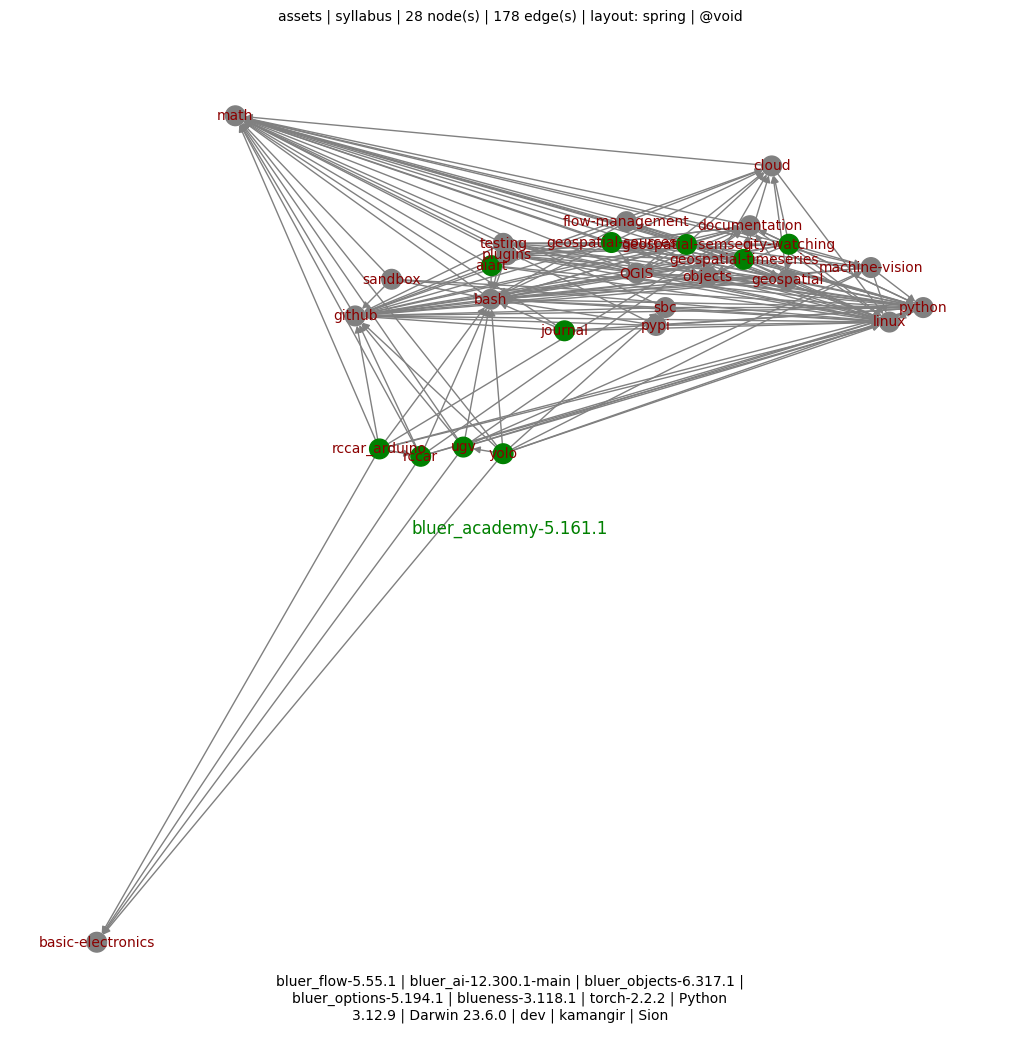
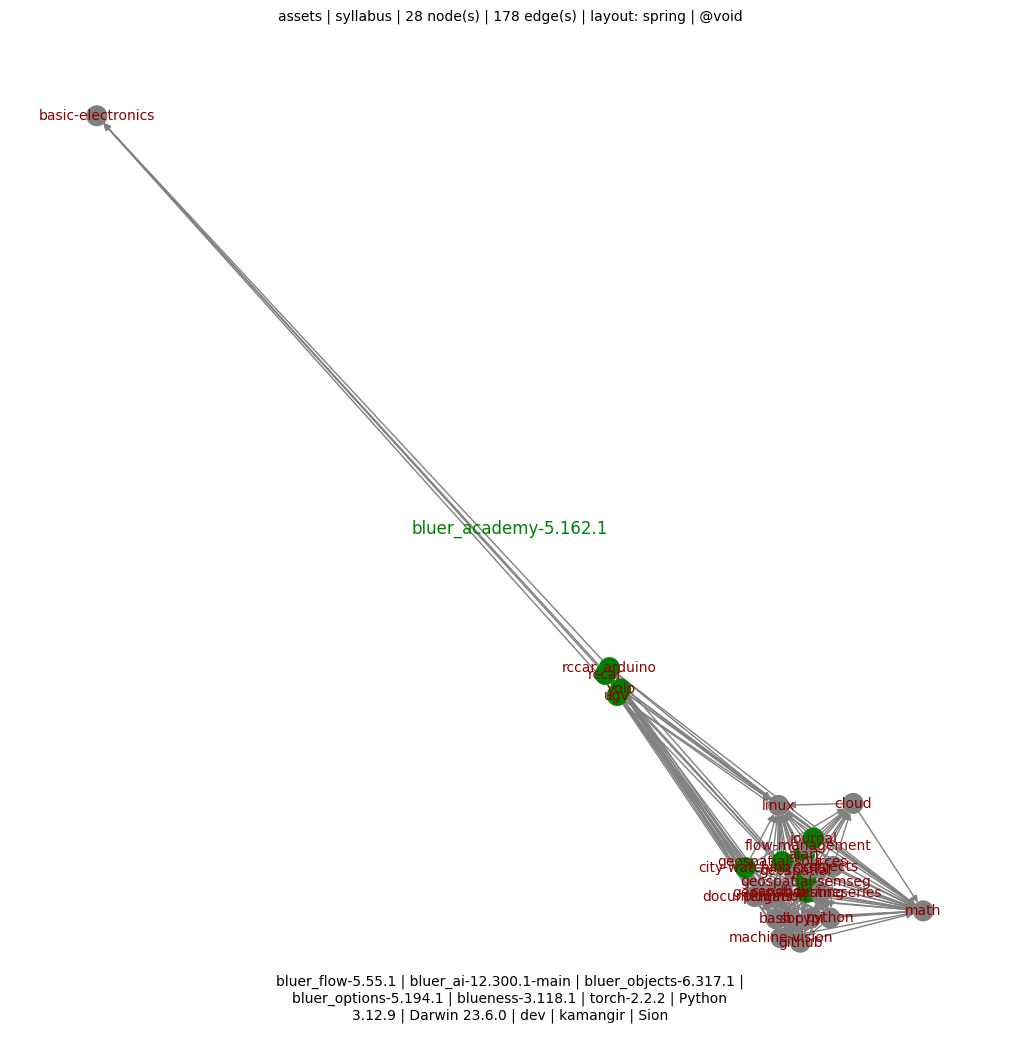
++ - kamangir/bolt#746

diff --git a/bluer_academy/academy/syllabus/basic_electronics.py b/bluer_academy/academy/syllabus/basic_electronics.py
@@ -1,4 +1,7 @@
+from bluer_objects.README.consts import assets_url
+
 from bluer_academy.academy.classes.topic import Topic
+from bluer_academy.academy.syllabus.consts import bluer_sbc_blob
 
 topic = Topic(
     "basic-electronics",
@@ -12,5 +15,18 @@ topic = Topic(
         "wireless control",
     ],
     duration=6,
-    items={},
+    items={
+        assets_url(
+            suffix="battery-bus/20251007_221902.jpg",
+            volume=2,
+        ): f"{bluer_sbc_blob}docs/battery-bus.md",
+        assets_url(
+            suffix="adapter-bus/20251017_222911.jpg",
+            volume=2,
+        ): f"{bluer_sbc_blob}docs/adapter-bus.md",
+        assets_url(
+            suffix="ultrasonic-sensor-tester/00.jpg?raw=true",
+            volume=2,
+        ): f"{bluer_sbc_blob}docs/ultrasonic-sensor-tester.md",
+    },
 )

diff --git a/bluer_academy/academy/syllabus/sbc.py b/bluer_academy/academy/syllabus/sbc.py
@@ -21,18 +21,6 @@ topic = Topic(
             suffix="swallow/design/v5/01.jpg?raw=true",
             volume=2,
         ): f"{bluer_sbc_blob}docs/swallow.md",
-        assets_url(
-            suffix="battery-bus/20251007_221902.jpg",
-            volume=2,
-        ): f"{bluer_sbc_blob}docs/battery-bus.md",
-        assets_url(
-            suffix="adapter-bus/20251017_222911.jpg",
-            volume=2,
-        ): f"{bluer_sbc_blob}docs/adapter-bus.md",
-        assets_url(
-            suffix="ultrasonic-sensor-tester/00.jpg?raw=true",
-            volume=2,
-        ): f"{bluer_sbc_blob}docs/ultrasonic-sensor-tester.md",
         "https://github.com/kamangir/blue-bracket/raw/main/images/chenar-grove-1.jpg": "https://github.com/kamangir/blue-bracket",
     },
 )

diff --git a/bluer_academy/__init__.py b/bluer_academy/__init__.py
@@ -4,7 +4,7 @@ ICON = "📐"
 
 DESCRIPTION = f"{ICON} an academy for practical AI in Iran."
 
-VERSION = "5.161.1"
+VERSION = "5.162.1"
 
 REPO_NAME = "bluer-academy"
 

diff --git a/bluer_academy/docs/academy/README.md b/bluer_academy/docs/academy/README.md
@@ -54,6 +54,6 @@ instructions: ([en](./instructions/en.md)), 🇮🇷 ([fa](./instructions/fa.md)
 
 |   |   |   |   |   |
 | --- | --- | --- | --- | --- |
-| [`aiart`](./syllabus/aiart.md) [![image](https://github.com/kamangir/openai-commands/raw/main/assets/DALL-E.png?raw=true)](./syllabus/aiart.md)  | [`city-watching`](./syllabus/city-watching.md) [![image](https://github.com/kamangir/assets/raw/main/vanwatch/2024-01-06-20-39-46-73614-QGIS.gif)](./syllabus/city-watching.md)  | [`geospatial-semseg`](./syllabus/geospatial-semseg.md) [![image](https://github.com/kamangir/assets/raw/main/palisades/palisades-analytics-2025-01-28-09-27-20-itglyy/thumbnail-039462-378510-palisades-analytics-2025-01-28-09-27-20-itglyy.gif)](./syllabus/geospatial-semseg.md)  | [`geospatial-sources`](./syllabus/geospatial-sources.md) [![image](https://github.com/kamangir/assets/raw/main/blue-geo/Maxar-Open-Datacube.png)](./syllabus/geospatial-sources.md)  | [`geospatial-timeseries`](./syllabus/geospatial-timeseries.md) [![image](https://github.com/kamangir/assets/raw/main/geo-watch-2025-05-23-2ck64x/geo-watch-2025-05-23-2ck64x.gif)](./syllabus/geospatial-timeseries.md)  |
-| [`journal`](./syllabus/journal.md) [![image](https://github.com/kamangir/assets/raw/main/blue-plugin/marquee.png?raw=true)](./syllabus/journal.md)  | [`rccar`](./syllabus/rccar.md) [![image](https://github.com/kamangir/assets2/raw/main/ravin/20250723_095155~2_1.gif)](./syllabus/rccar.md)  | [`rccar_arduino`](./syllabus/rccar_arduino.md) [![image](https://github.com/kamangir/assets2/raw/main/ravin4/20251014_164022.jpg)](./syllabus/rccar_arduino.md)  | [`sbc`](./syllabus/sbc.md) [![image](https://github.com/kamangir/assets2/raw/main/swallow/design/head-v1/01.jpg?raw=true)](./syllabus/sbc.md)  | [`ugv`](./syllabus/ugv.md) [![image](https://github.com/kamangir/assets2/raw/main/arzhang/VID-20250905-WA0014_1.gif)](./syllabus/ugv.md)  |
-| [`yolo`](./syllabus/yolo.md) [![image](https://github.com/kamangir/assets/raw/main/swallow-debug-2025-09-25-13-16-59-rnm7jd/swallow-debug-2025-09-25-13-16-59-rnm7jd.gif)](./syllabus/yolo.md)  |  |  |  |  |
+| [`aiart`](./syllabus/aiart.md) [![image](https://github.com/kamangir/openai-commands/raw/main/assets/DALL-E.png?raw=true)](./syllabus/aiart.md)  | [`basic-electronics`](./syllabus/basic-electronics.md) [![image](https://github.com/kamangir/assets2/raw/main/battery-bus/20251007_221902.jpg)](./syllabus/basic-electronics.md)  | [`city-watching`](./syllabus/city-watching.md) [![image](https://github.com/kamangir/assets/raw/main/vanwatch/2024-01-06-20-39-46-73614-QGIS.gif)](./syllabus/city-watching.md)  | [`geospatial-semseg`](./syllabus/geospatial-semseg.md) [![image](https://github.com/kamangir/assets/raw/main/palisades/palisades-analytics-2025-01-28-09-27-20-itglyy/thumbnail-039462-378510-palisades-analytics-2025-01-28-09-27-20-itglyy.gif)](./syllabus/geospatial-semseg.md)  | [`geospatial-sources`](./syllabus/geospatial-sources.md) [![image](https://github.com/kamangir/assets/raw/main/blue-geo/Maxar-Open-Datacube.png)](./syllabus/geospatial-sources.md)  |
+| [`geospatial-timeseries`](./syllabus/geospatial-timeseries.md) [![image](https://github.com/kamangir/assets/raw/main/geo-watch-2025-05-23-2ck64x/geo-watch-2025-05-23-2ck64x.gif)](./syllabus/geospatial-timeseries.md)  | [`journal`](./syllabus/journal.md) [![image](https://github.com/kamangir/assets/raw/main/blue-plugin/marquee.png?raw=true)](./syllabus/journal.md)  | [`rccar`](./syllabus/rccar.md) [![image](https://github.com/kamangir/assets2/raw/main/ravin/20250723_095155~2_1.gif)](./syllabus/rccar.md)  | [`rccar_arduino`](./syllabus/rccar_arduino.md) [![image](https://github.com/kamangir/assets2/raw/main/ravin4/20251014_164022.jpg)](./syllabus/rccar_arduino.md)  | [`sbc`](./syllabus/sbc.md) [![image](https://github.com/kamangir/assets2/raw/main/swallow/design/head-v1/01.jpg?raw=true)](./syllabus/sbc.md)  |
+| [`ugv`](./syllabus/ugv.md) [![image](https://github.com/kamangir/assets2/raw/main/arzhang/VID-20250905-WA0014_1.gif)](./syllabus/ugv.md)  | [`yolo`](./syllabus/yolo.md) [![image](https://github.com/kamangir/assets/raw/main/swallow-debug-2025-09-25-13-16-59-rnm7jd/swallow-debug-2025-09-25-13-16-59-rnm7jd.gif)](./syllabus/yolo.md)  |  |  |  |

diff --git a/bluer_academy/docs/academy/syllabus/sbc.md b/bluer_academy/docs/academy/syllabus/sbc.md
@@ -15,5 +15,4 @@ includes:
 
 |   |   |   |
 | --- | --- | --- |
-| [![image](https://github.com/kamangir/assets2/raw/main/swallow/design/head-v1/01.jpg?raw=true)](https://github.com/kamangir/bluer-sbc/blob/main/bluer_sbcdocs/swallow-head.md) | [![image](https://github.com/kamangir/assets2/raw/main/swallow/design/v5/01.jpg?raw=true)](https://github.com/kamangir/bluer-sbc/blob/main/bluer_sbcdocs/swallow.md) | [![image](https://github.com/kamangir/assets2/raw/main/battery-bus/20251007_221902.jpg?raw=true)](https://github.com/kamangir/bluer-sbc/blob/main/bluer_sbcdocs/battery-bus.md) |
-| [![image](https://github.com/kamangir/assets2/raw/main/adapter-bus/20251017_222911.jpg?raw=true)](https://github.com/kamangir/bluer-sbc/blob/main/bluer_sbcdocs/adapter-bus.md) | [![image](https://github.com/kamangir/assets2/raw/main/ultrasonic-sensor-tester/00.jpg?raw=true)](https://github.com/kamangir/bluer-sbc/blob/main/bluer_sbcdocs/ultrasonic-sensor-tester.md) | [![image](https://github.com/kamangir/blue-bracket/raw/main/images/chenar-grove-1.jpg?raw=true)](https://github.com/kamangir/blue-bracket) |
+| [![image](https://github.com/kamangir/assets2/raw/main/swallow/design/head-v1/01.jpg?raw=true)](https://github.com/kamangir/bluer-sbc/blob/main/bluer_sbcdocs/swallow-head.md) | [![image](https://github.com/kamangir/assets2/raw/main/swallow/design/v5/01.jpg?raw=true)](https://github.com/kamangir/bluer-sbc/blob/main/bluer_sbcdocs/swallow.md) | [![image](https://github.com/kamangir/blue-bracket/raw/main/images/chenar-grove-1.jpg?raw=true)](https://github.com/kamangir/blue-bracket) |

diff --git a/README.md b/README.md
@@ -15,4 +15,4 @@ pip install bluer-academy
 
 [![pylint](https://github.com/kamangir/bluer-academy/actions/workflows/pylint.yml/badge.svg)](https://github.com/kamangir/bluer-academy/actions/workflows/pylint.yml) [![pytest](https://github.com/kamangir/bluer-academy/actions/workflows/pytest.yml/badge.svg)](https://github.com/kamangir/bluer-academy/actions/workflows/pytest.yml) [![bashtest](https://github.com/kamangir/bluer-academy/actions/workflows/bashtest.yml/badge.svg)](https://github.com/kamangir/bluer-academy/actions/workflows/bashtest.yml) [![PyPI version](https://img.shields.io/pypi/v/bluer-academy.svg)](https://pypi.org/project/bluer-academy/) [![PyPI - Downloads](https://img.shields.io/pypi/dd/bluer-academy)](https://pypistats.org/packages/bluer-academy)
 
-built by 🌀 [`bluer README`](https://github.com/kamangir/bluer-objects/tree/main/bluer_objects/README), based on 📐 [`bluer_academy-5.161.1`](https://github.com/kamangir/bluer-academy).
+built by 🌀 [`bluer README`](https://github.com/kamangir/bluer-objects/tree/main/bluer_objects/README), based on 📐 [`bluer_academy-5.162.1`](https://github.com/kamangir/bluer-academy).

diff --git a/bluer_academy/docs/academy/syllabus/basic-electronics.md b/bluer_academy/docs/academy/syllabus/basic-electronics.md
@@ -16,3 +16,6 @@ includes:
 
 ⏳ duration (hours): 6.0 - including requirements: 6.0
 
+|   |   |   |
+| --- | --- | --- |
+| [![image](https://github.com/kamangir/assets2/raw/main/battery-bus/20251007_221902.jpg?raw=true)](https://github.com/kamangir/bluer-sbc/blob/main/bluer_sbcdocs/battery-bus.md) | [![image](https://github.com/kamangir/assets2/raw/main/adapter-bus/20251017_222911.jpg?raw=true)](https://github.com/kamangir/bluer-sbc/blob/main/bluer_sbcdocs/adapter-bus.md) | [![image](https://github.com/kamangir/assets2/raw/main/ultrasonic-sensor-tester/00.jpg?raw=true)](https://github.com/kamangir/bluer-sbc/blob/main/bluer_sbcdocs/ultrasonic-sensor-tester.md) |
